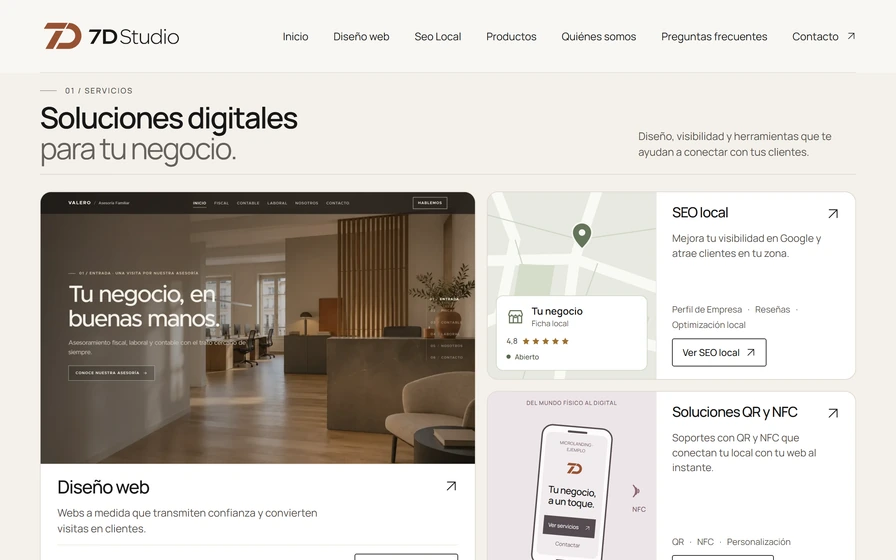
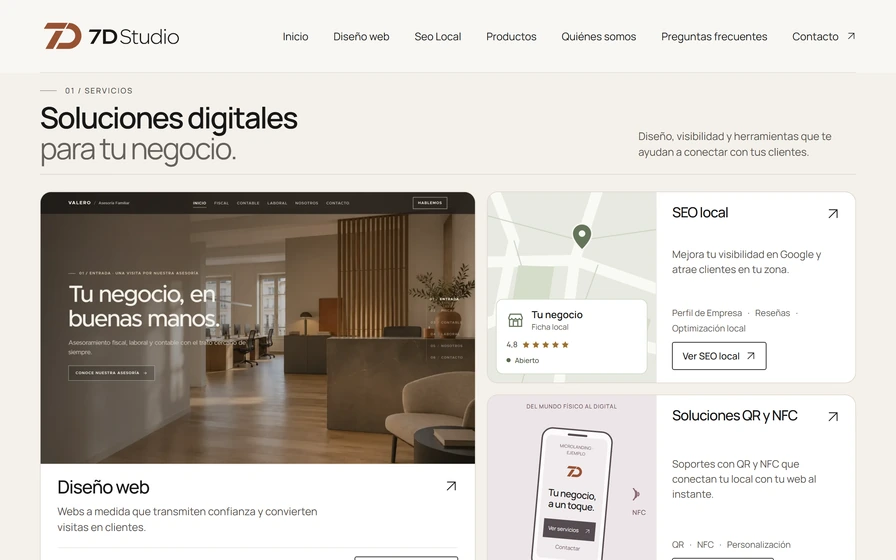
Elimina tirones en la animacion GSAP y centra opticamente las descripciones del bento

diff --git a/src/scripts/cinematic-hero.ts b/src/scripts/cinematic-hero.ts
@@ -166,19 +166,27 @@ export async function initCinematicHero() {
     let posterSize: { width: number; height: number } | null = null;
     let projectPhoto: ReturnType<typeof createPhotoProjector>;
     const debugMode = import.meta.env.DEV && new URLSearchParams(location.search).has('debugScreen');
-    const handoff = { hero, stage, layers: [photo, foreground, projection, ...(poster ? [poster] : []), outside], debug, debugMode };
+    // El póster gestiona su propia visibilidad (showPoster) para evitar alternar hidden en cada frame.
+    const handoff = { hero, stage, layers: [photo, foreground, projection, outside], debug, debugMode };
     const interaction = createCinematicLinks(hero, projection, surface);
     debug.hidden = !debugMode;
     if (debugMode) {
       debug.innerHTML = '<svg width="100%" height="100%" style="overflow:visible"><polygon fill="none" stroke="#3159e8" stroke-width="2"/><g></g></svg>';
     }
+    let lastComplete: boolean | null = null;
+    let lastNativeRes: boolean | null = null;
+    let lastOutsideInert: boolean | null = null;
     const clamp = (value: number) => Math.min(1, Math.max(0, value));
     const smooth = (value: number) => { const t = clamp(value); return t * t * (3 - 2 * t); };
     function render() {
       const p = state.progress;
-      // Con póster activo, pasa a resolución nativa en p >= 0.40 (mientras el póster aún
-      // cubre el clon al 100%) para que durante el crossfade 0.42→0.54 las métricas coincidan al píxel.
-      hero.classList.toggle('cinematic-native-resolution', posterSize ? p >= .40 : p >= .68);
+      // Con póster activo, el clon HTML permanece siempre a resolución nativa 1×:
+      // evita el reflujo y re-rasterización síncrona de zoom:2 al cruzar p=0.40 durante el scroll.
+      const nativeRes = Boolean(posterSize) || p >= .68;
+      if (nativeRes !== lastNativeRes) {
+        hero.classList.toggle('cinematic-native-resolution', nativeRes);
+        lastNativeRes = nativeRes;
+      }
       const approach = smooth((p - .15) / .60);
       const straighten = smooth((p - .45) / .30);
       const scale = Math.exp(Math.log(zoom) * approach);
@@ -195,26 +203,36 @@ export async function initCinematicHero() {
       const screenMatrix = projectiveMatrix(current, width, height);
       projection.style.transform = screenMatrix;
       outside.style.opacity = String(1 - smooth((p - .15) / .22));
-      outside.inert = p > .37;
+      const nextOutsideInert = p > .37;
+      if (nextOutsideInert !== lastOutsideInert) {
+        outside.inert = nextOutsideInert;
+        lastOutsideInert = nextOutsideInert;
+      }
       // La foto original desaparece sin reaparecer debajo de la interfaz nueva.
       const photoOpacity = String(1 - smooth((p - .68) / .07));
       photo.style.opacity = photoOpacity;
       foreground.style.opacity = photoOpacity;
       const complete = pastEnd || p >= visualEnd;
       // Reverse: reveal the stage before transferring keyboard focus into it.
-      if (!complete) applyCinematicHandoff(handoff, false);
+      if (!complete && lastComplete !== false) {
+        applyCinematicHandoff(handoff, false);
+        lastComplete = false;
+      }
       if (poster) {
         // Transición cuando la pantalla supera ~0.55x (p=0.42→0.54) y el HTML real ya es nítido.
         const posterOpacity = posterSize ? 1 - smooth((p - .42) / .12) : 0;
         const showPoster = !complete && Boolean(posterSize) && posterOpacity > .001;
-        poster.hidden = !showPoster;
+        if (poster.hidden !== !showPoster) poster.hidden = !showPoster;
         if (showPoster && posterSize) {
           poster.style.transform = projectiveMatrix(current, posterSize.width, posterSize.height);
           poster.style.opacity = String(posterOpacity);
         }
       }
       interaction.render(screenMatrix, complete, Number(photoOpacity) > 0);
-      if (complete) applyCinematicHandoff(handoff, true);
+      if (complete && lastComplete !== true) {
+        applyCinematicHandoff(handoff, true);
+        lastComplete = true;
+      }
       if (debugMode && !complete) {
         debug.querySelector('polygon')!.setAttribute('points', current.map(point => `${point.x},${point.y}`).join(' '));
         debug.querySelector('g')!.innerHTML = current.map((point, i) => `<circle cx="${point.x}" cy="${point.y}" r="5" fill="#3159e8"/><text x="${point.x + 9}" y="${point.y - 9}" fill="#3159e8">${i + 1}</text>`).join('');
@@ -223,6 +241,7 @@ export async function initCinematicHero() {
     function measure() {
       // hidden retira las imágenes del layout al completar. Medirlas temporalmente
       // bajo el escenario oculto y volver a aplicar el estado antes del siguiente paint.
+      lastComplete = null;
       photo.hidden = false;
       foreground.hidden = false;
       width = stage.clientWidth;

diff --git a/src/scripts/cinematic-links.ts b/src/scripts/cinematic-links.ts
@@ -17,6 +17,7 @@ export function createCinematicLinks(hero: HTMLElement, projection: HTMLElement,
   let complete = false;
   let active = false;
   let aperture = 'none';
+  let lastClipPath = '';
 
   function sync(nextComplete: boolean) {
     complete = nextComplete;
@@ -61,7 +62,11 @@ export function createCinematicLinks(hero: HTMLElement, projection: HTMLElement,
     render(matrix: string, nextComplete: boolean, photoVisible: boolean) {
       layer.style.transform = matrix;
       // The notch/hand mask also clips hit-testing, not only the photograph.
-      layer.style.clipPath = photoVisible ? aperture : 'none';
+      const nextClipPath = photoVisible ? aperture : 'none';
+      if (nextClipPath !== lastClipPath) {
+        layer.style.clipPath = nextClipPath;
+        lastClipPath = nextClipPath;
+      }
       sync(nextComplete);
     },
     destroy() {
